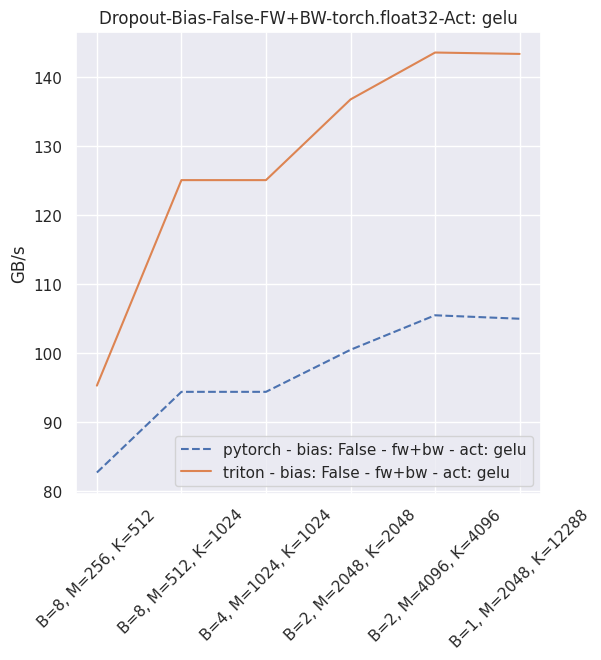
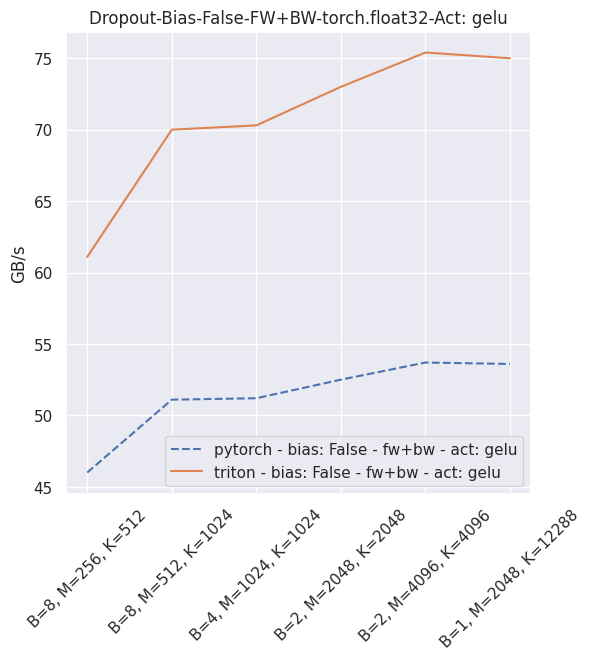
moving to a tile based approach to better handle big buffers

diff --git a/xformers/triton/k_sum.py b/xformers/triton/k_sum.py
@@ -10,49 +10,56 @@ import triton.language as tl
 # fmt: off
 @triton.autotune(
     configs=[
-        triton.Config({"BLOCK_N": 4}, num_warps=1),
-        triton.Config({"BLOCK_N": 4}, num_warps=4),
-        triton.Config({"BLOCK_N": 8}, num_warps=2),
-        triton.Config({"BLOCK_N": 8}, num_warps=4),
-        triton.Config({"BLOCK_N": 16}, num_warps=4),
-        triton.Config({"BLOCK_N": 32}, num_warps=8),
-        triton.Config({"BLOCK_N": 64}, num_warps=16),
-        triton.Config({"BLOCK_N": 64}, num_warps=16),
+        triton.Config({"BLOCK_M": 32, "BLOCK_N": 16}, num_stages=5, num_warps=1),
+        triton.Config({"BLOCK_M": 64, "BLOCK_N": 16}, num_stages=5, num_warps=2),
+        triton.Config({"BLOCK_M": 128, "BLOCK_N": 16}, num_stages=5, num_warps=2),
+        triton.Config({"BLOCK_M": 256, "BLOCK_N": 16}, num_stages=5, num_warps=2),
+        triton.Config({"BLOCK_M": 512, "BLOCK_N": 16}, num_stages=5, num_warps=2),
+        triton.Config({"BLOCK_M": 1024, "BLOCK_N": 16}, num_stages=5, num_warps=4),
+        triton.Config({"BLOCK_M": 2048, "BLOCK_N": 16}, num_stages=5, num_warps=4),
     ],
-    key=["M", "N"],
-)
-@triton.heuristics(
-    values={"BLOCK_SIZE": lambda *args, **_: triton.next_power_of_2(args[-2])}
+    key=["M", "N", "is_fp16"],
 )
 @triton.jit
 def k_sum_0(
-    Y,
-    X,
+    Y, X,
     stride_xm,
-    M,
-    N,
-    **meta,  # extra parameters which can be automatically filled in given some heuristics
+    M, N,
+    is_fp16,  # useful for autotune
+    **meta,
 ):
     # fmt: om
 
     """
-    Sum a 2d tensor over the first (strided) dimension
+    Sum a 2d tensor over the first (strided) dimension.
+    This extracts some speed through a parallel sum across the second dimension
     """
+    BLOCK_M = meta["BLOCK_M"]
+    BLOCK_N = meta["BLOCK_N"]
 
-    # row indices. We'll reduce over this dimension
-    m = tl.arange(0, meta["BLOCK_SIZE"])
+    # partial row indices. We'll reduce over this dimension
+    m = tl.arange(0, BLOCK_M)
 
-    # To get some extra parallelization, we can try to handle several columns in the same thread block
-    n = tl.program_id(0)
-    rn = n * meta["BLOCK_N"] + tl.arange(0, meta["BLOCK_N"])
+    # To get some extra parallelization, we handle several columns in the same thread block
+    rn = tl.program_id(axis=0) * BLOCK_N + tl.arange(0, BLOCK_N)
 
     # the memory address of all the elements that we want to load can be computed as follows
     x_ptrs = X + m[:, None] * stride_xm + rn[None, :]
+    x_sum = tl.zeros((BLOCK_N,), dtype=tl.float32)
 
-    # load input data; pad out-of-bounds elements with 0
-    # NOTE: make sure to accumulate in fp32 to prevent a trivial overflow
-    mask = (m[:, None] < M) & (rn[None, :] < N)
-    x = tl.load(x_ptrs, mask=mask, other=0.0).to(tl.float32)
-    x = tl.where(mask, x, 0.0)
-    x_sum = tl.sum(x, 0)
+    tiles = M // BLOCK_M
+    if M % BLOCK_M > 0:
+        tiles += 1
+
+    for _ in range(tiles):
+        # load input data; pad out-of-bounds elements with 0
+        # NOTE: make sure to accumulate in fp32 to prevent a trivial overflow
+        mask = (m[:, None] < M) & (rn[None, :] < N)
+        x = tl.load(x_ptrs, mask=mask, other=0.0)
+        x_sum += tl.sum(x, 0)
+
+        # move the load pointer
+        x_ptrs += BLOCK_M * stride_xm
+        m += BLOCK_M  # update the mask check
+
     tl.store(Y + rn, x_sum, mask=rn < N)

diff --git a/xformers/benchmarks/benchmark_triton_stride_sum.py b/xformers/benchmarks/benchmark_triton_stride_sum.py
@@ -18,7 +18,6 @@ SHAPES = [
     (1024, 768),
     (2048, 1024),
     (4096, 4096),
-    (2048, 12288),
 ]
 
 
@@ -49,12 +48,14 @@ def bench_functions(
 
                 results[key][testcase.name] = f"{metric:.1f}"
 
+        _type = " fp16" if dtype == torch.float16 else " fp32"
+
         pretty_print(
             results,
-            title=" ------------- Type: {} ------------- ".format(dtype),
+            title=" ------------- Type: {} ------------- ".format(_type),
             units=unit,
         )
-        _type = " fp16" if dtype == torch.float16 else " fp32"
+
         pretty_plot(results, title + _type, unit, dash_key="pytorch")
 
 

diff --git a/xformers/triton/k_fused_matmul_bw.py b/xformers/triton/k_fused_matmul_bw.py
@@ -10,6 +10,8 @@ import torch
 import triton
 import triton.language as tl
 
+from xformers.triton.sum_strided import sum_2d_dim_0
+
 
 # fmt: off
 @triton.heuristics({
@@ -144,6 +146,6 @@ def fused_matmul_backward(
     # The following ops can also be handled by triton
     grad_in = grad_out_ @ weight
     grad_weight = grad_out_.transpose(1, 0) @ inputs_ if trainable_weight else None
-    grad_bias = torch.sum(grad_out_, 0) if trainable_bias else None
+    grad_bias = sum_2d_dim_0(grad_out_) if trainable_bias else None
 
     return grad_in.reshape_as(inputs), grad_weight, grad_bias

diff --git a/xformers/triton/sum_strided.py b/xformers/triton/sum_strided.py
@@ -30,9 +30,19 @@ def sum_2d_dim_0(x: torch.Tensor):
         " You would probably be better served with torch.sum()"
     )
 
-    def grid(meta):
-        return (triton.cdiv(x.shape[1], meta["BLOCK_N"]),)
+    # Manually handle the scheduling
+    M, N = x.shape
 
-    k_sum_0[grid](out, x, x.stride(0), x.shape[0], x.shape[1])
+    def grid(meta):
+        return (triton.cdiv(N, meta["BLOCK_N"]),)
+
+    # fmt: off
+    k_sum_0[grid](
+        out, x,
+        x.stride(0),
+        M, N,
+        x.dtype == torch.float16
+    )
+    # fmt: on
 
     return out

diff --git a/tests/test_triton_basics.py b/tests/test_triton_basics.py
@@ -9,6 +9,7 @@ import torch
 
 SHAPES = [
     (384, 128),
+    (8 * 384, 128),
     (34, 128),
     (16, 128),
     (16, 512),
@@ -114,7 +115,9 @@ if _triton_available:
 
         torch_sum = torch.sum(a, dim=0)
         triton_sum = sum_2d_dim_0(a)
-        assert torch.allclose(torch_sum, triton_sum)
+        assert torch.allclose(
+            torch_sum, triton_sum, rtol=0.01
+        ), f"{torch_sum}\n{triton_sum}"
 
     def test_sum_strided_asserts():
         torch.random.manual_seed(0)

diff --git a/tests/test_triton_dropout.py b/tests/test_triton_dropout.py
@@ -151,4 +151,4 @@ def test_dropout_parity(shape, amp, bias, activation, p):
             if bias:
                 assert torch.allclose(
                     torch.norm(b.grad), torch.norm(b_.grad), rtol=0.01
-                ), f"{b.grad}\n{b_.grad}"
+                ), f"{b.grad.norm()}\n{b_.grad.norm()}"

diff --git a/xformers/benchmarks/benchmark_triton_dropout.py b/xformers/benchmarks/benchmark_triton_dropout.py
@@ -18,8 +18,8 @@ SHAPES = [
     (8, 512, 1024),
     (4, 1024, 1024),
     (2, 2048, 2048),
-    (2, 4096, 4096),
     (1, 2048, 12288),
+    (2, 4096, 4096),
 ]
 
 P = 0.1
